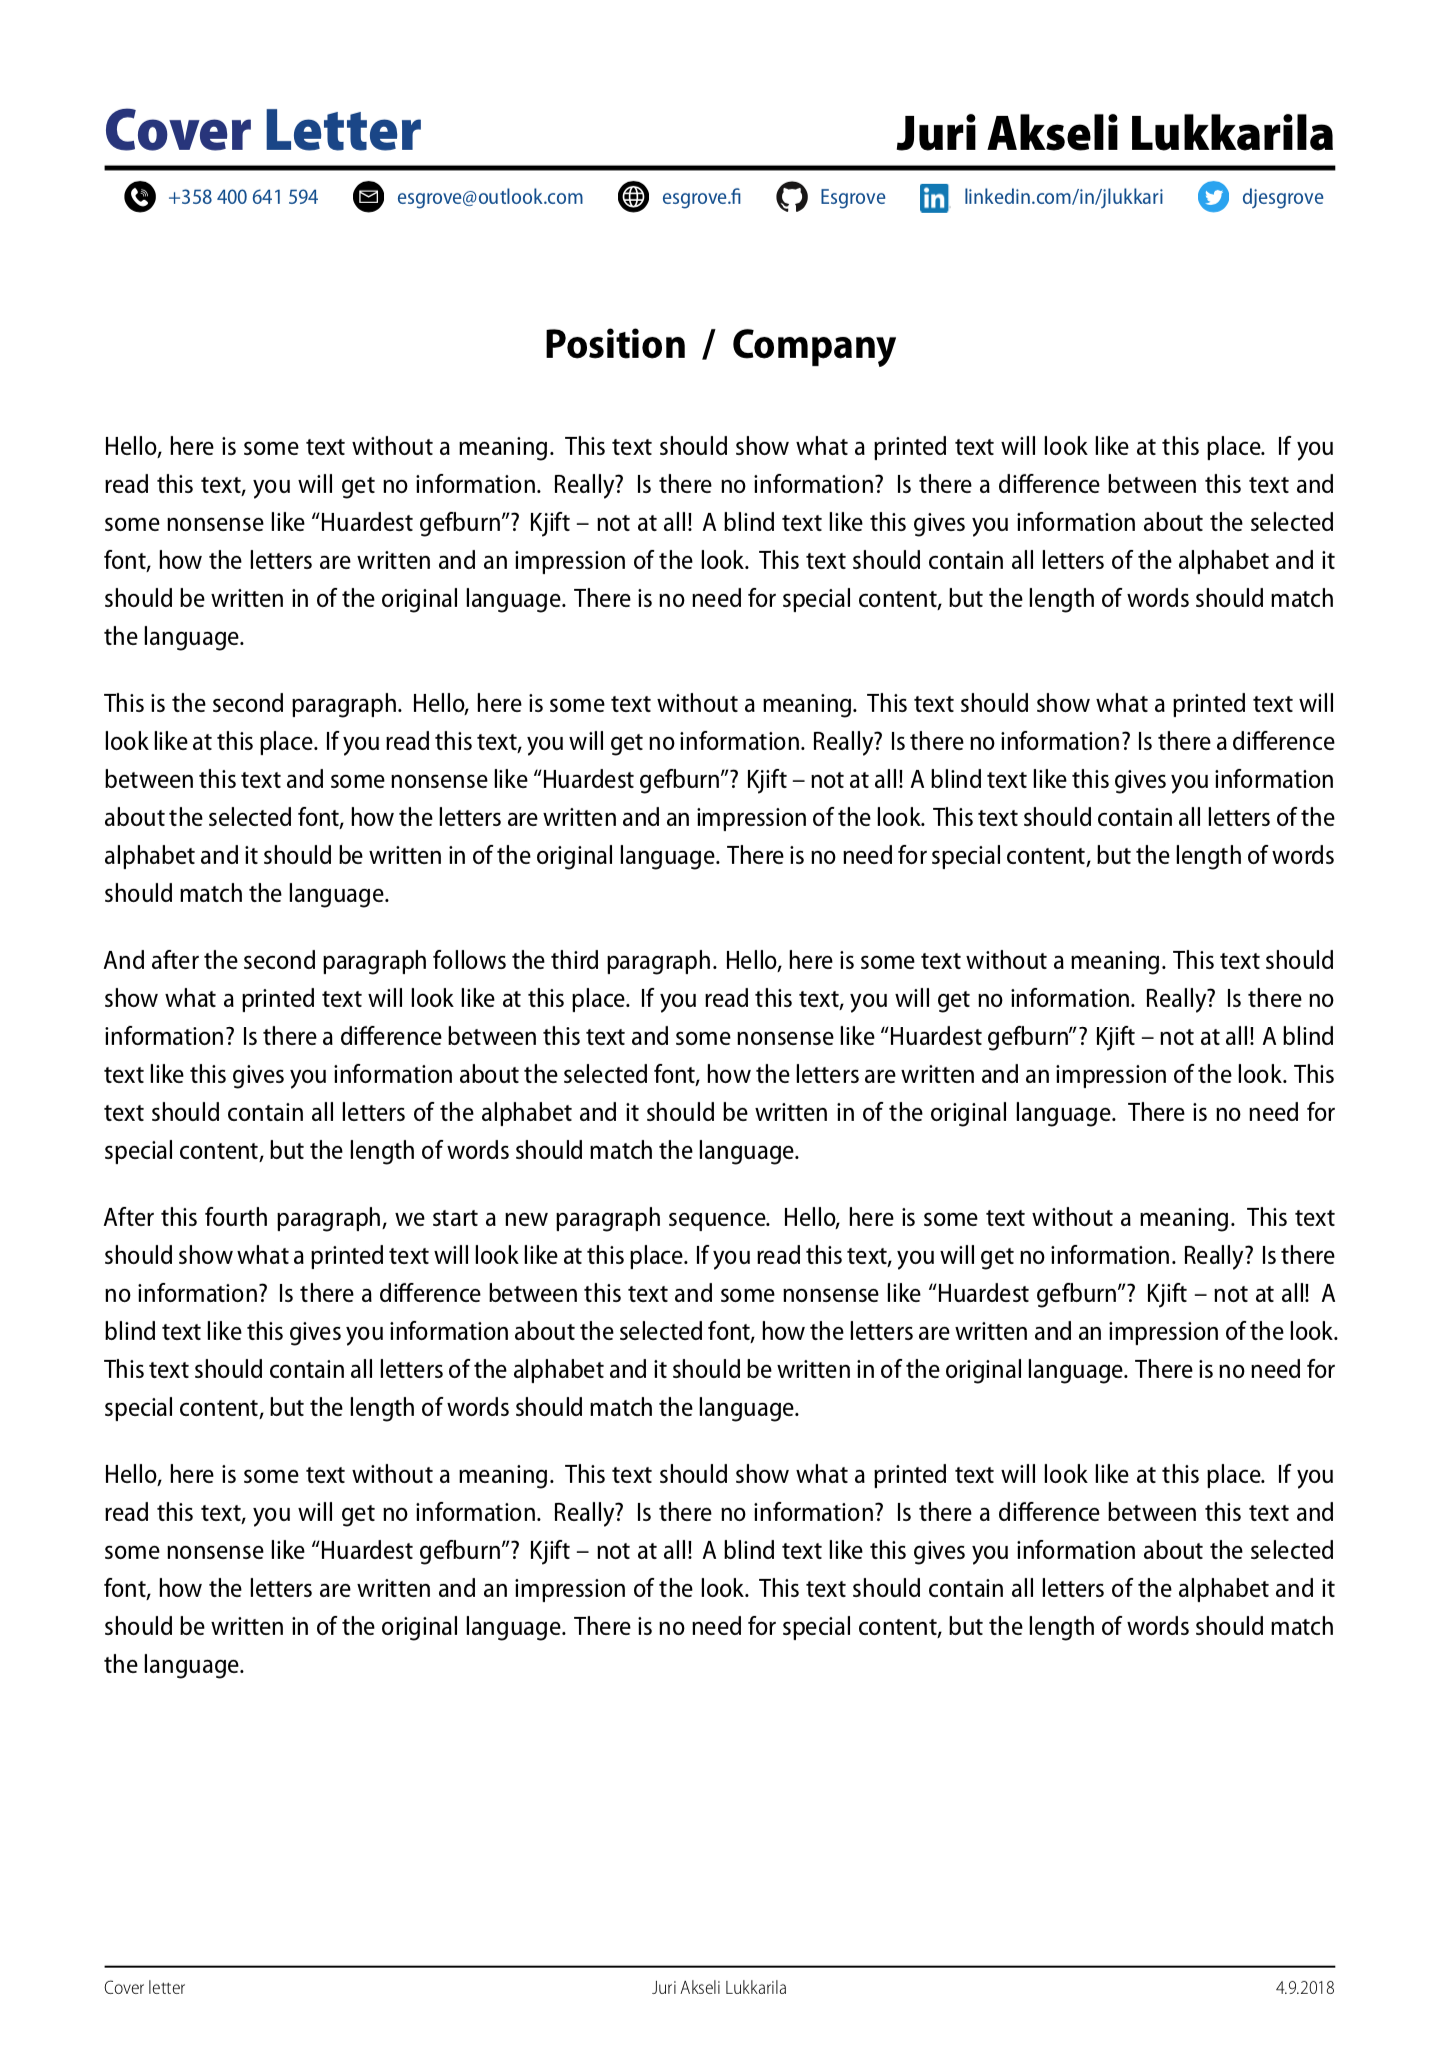
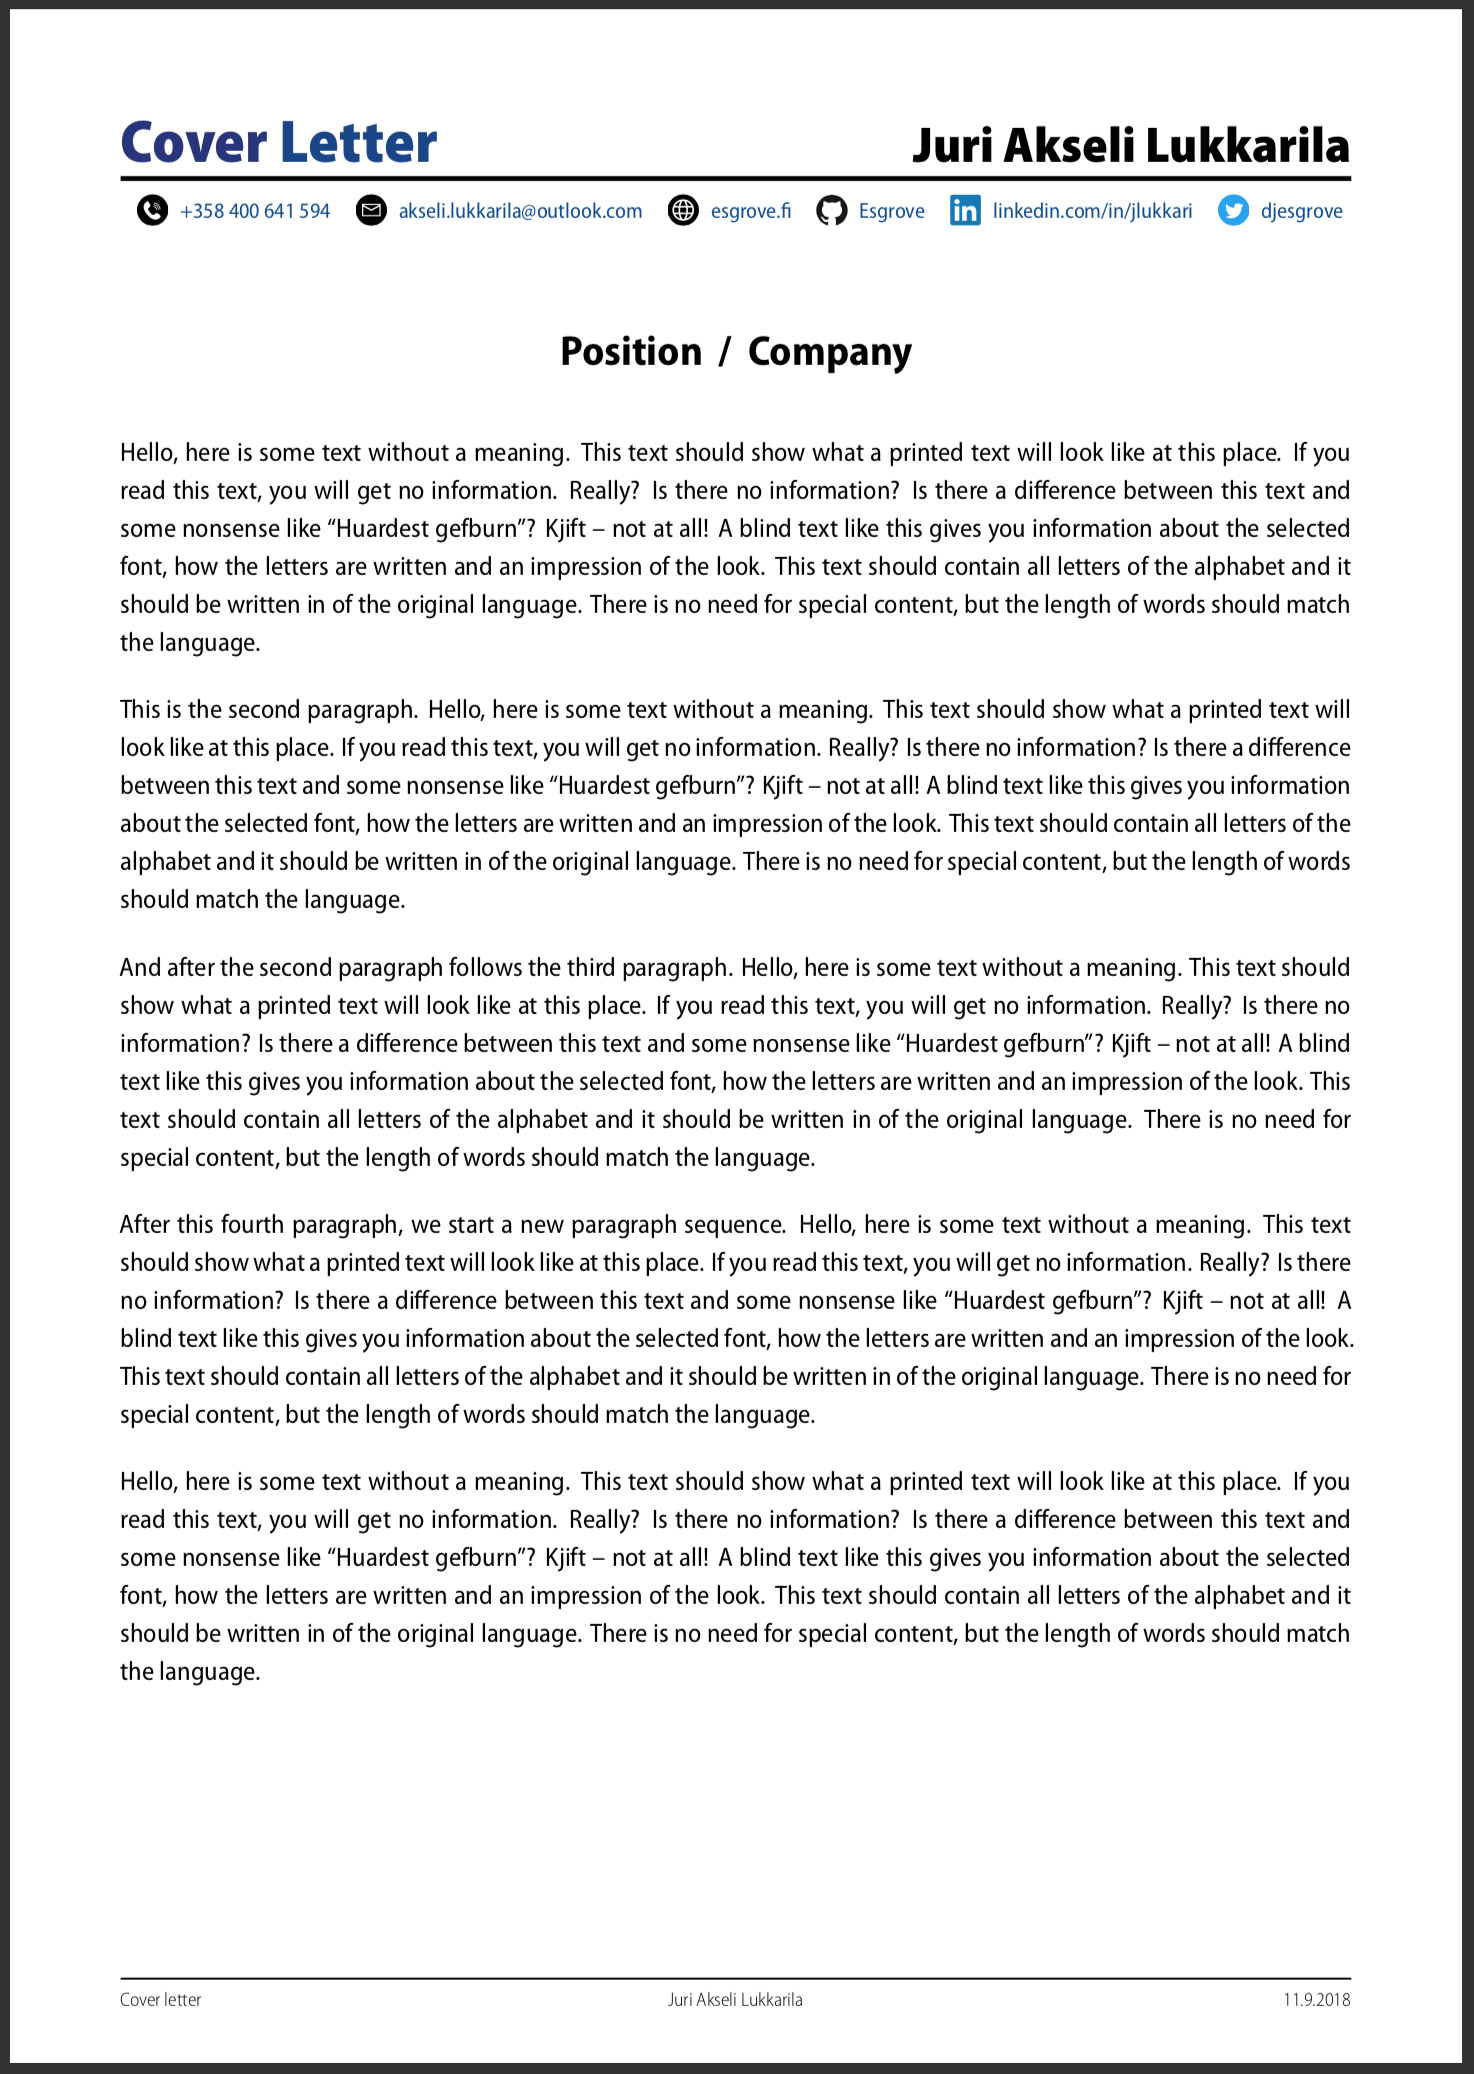
email updated

diff --git a/CV Juri Lukkarila.tex b/CV Juri Lukkarila.tex
@@ -199,7 +199,7 @@
         \begin{itemize}[label={},leftmargin=0.4cm,labelwidth=0cm, labelsep=0cm, itemsep=0.2mm]
             \item \logopic{call.pdf} \thinspace \href{tel:+358400641594}{+358 400 641 594}
             \item \logopic{github.pdf} \thinspace \href{https://github.com/Esgrove}{Esgrove}
-            \item \logopic{mail.pdf} \thinspace \thinspace \href{mailto:juri.lukkarila@outlook.com}{juri.lukkarila@outlook.com}
+            \item \logopic{mail.pdf} \thinspace \thinspace \href{mailto:akseli.lukkarila@outlook.com}{akseli.lukkarila@outlook.com}
             \item \logopic{linkedin.pdf} \thinspace \href{https://www.linkedin.com/in/jlukkari/}{linkedin.com/in/jlukkari}
             \item \logopic{web.pdf} \thinspace \href{http://www.esgrove.fi/}{esgrove.fi}
             \item \logopic{twitter.pdf} \thinspace \href{https://twitter.com/djesgrove}{djesgrove} 

diff --git a/Cover Letter.tex b/Cover Letter.tex
@@ -120,7 +120,7 @@
         \fontsize{9pt}{9pt}\selectfont
         \hspace*{0.5mm}
         \logopic{call.pdf}      \thinspace \href{tel:+358400641594}{+358 400 641 594} \hfill
-        \logopic{mail.pdf}      \thinspace \href{mailto:juri.lukkarila@outlook.com}{juri.lukkarila@outlook.com} \hfill
+        \logopic{mail.pdf}      \thinspace \href{mailto:akseli.lukkarila@outlook.com}{akseli.lukkarila@outlook.com} \hfill
         \logopic{web.pdf}       \thinspace \href{http://www.esgrove.fi/}{esgrove.fi} \hfill
         \logopic{github.pdf}    \thinspace \href{https://github.com/Esgrove}{Esgrove} \hfill
         \logopic{linkedin.pdf}  \thinspace \href{https://www.linkedin.com/in/jlukkari/}{linkedin.com/in/jlukkari} \hfill
